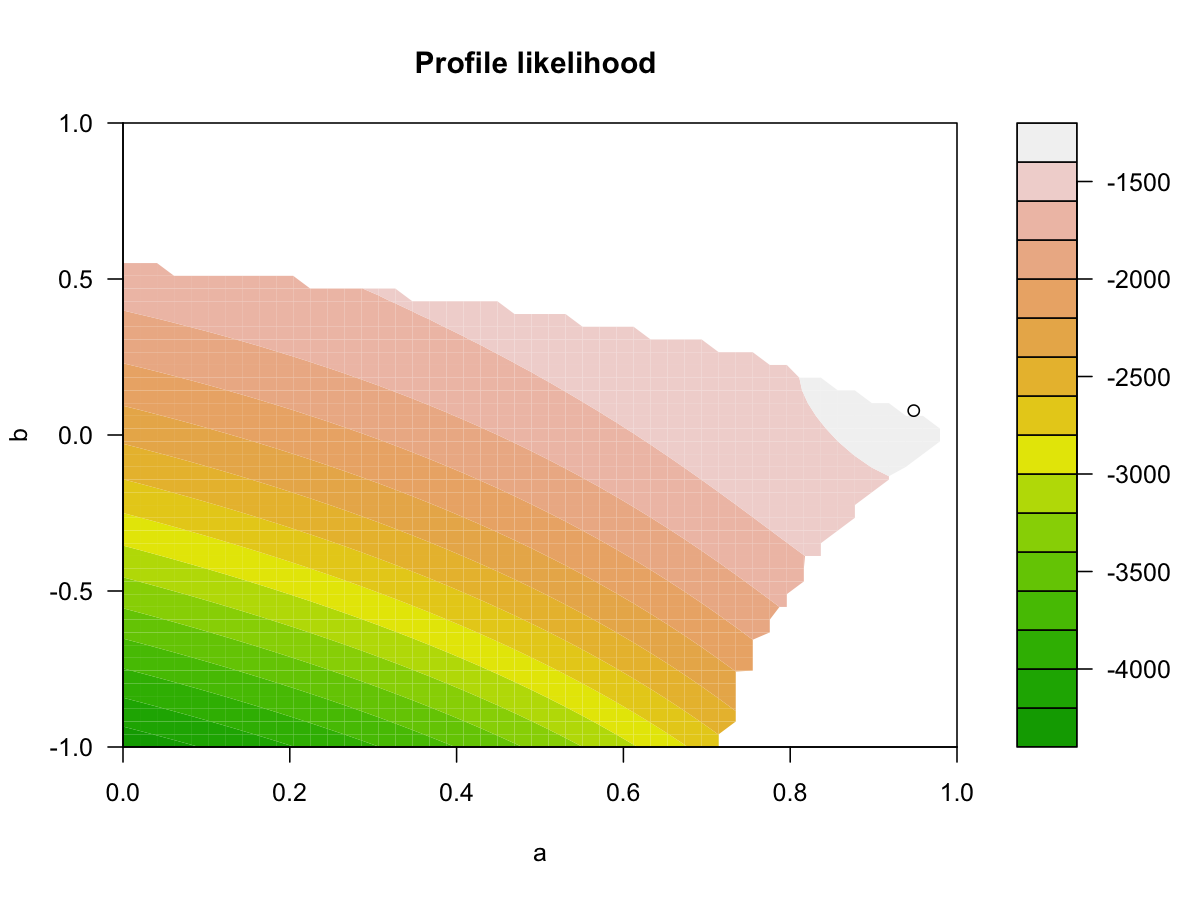
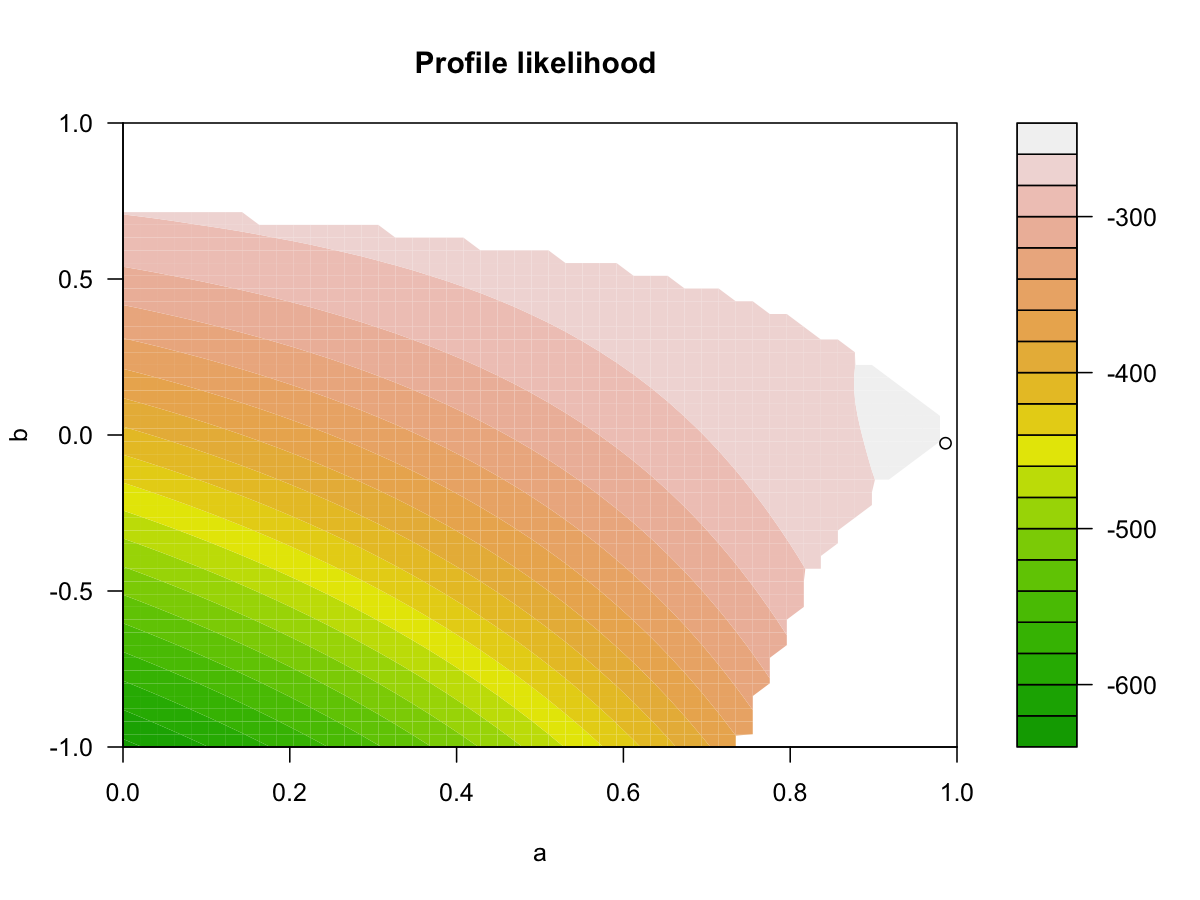
texmex md

diff --git a/R_Notebooks/texmex.md b/R_Notebooks/texmex.md
@@ -13,22 +13,22 @@ Mongi Nouira
 <p align="center">
 
     ##                  Market Communication.Services Technology Industrial Materials
-    ## Threshold          1.22                   1.38      1.645       1.38      1.57
-    ## P(X < threshold)   0.90                   0.90      0.900       0.90      0.90
-    ## sigma              0.85                   0.99      1.069       0.95      1.05
-    ## xi                 0.19                   0.14      0.074       0.17      0.16
+    ## Threshold          2.00                  2.000      2.000       2.00      2.00
+    ## P(X < threshold)   0.96                  0.946      0.927       0.94      0.93
+    ## sigma              0.96                  1.149      1.074       0.97      1.08
+    ## xi                 0.21                  0.096      0.083       0.21      0.18
     ## Upper end point     Inf                    Inf        Inf        Inf       Inf
     ##                  Consumer.Discretionary Financial Health.Care Consumer.Staples
-    ## Threshold                          1.45      1.67        1.14             0.92
-    ## P(X < threshold)                   0.90      0.90        0.90             0.90
-    ## sigma                              0.90      1.15        0.74             0.55
-    ## xi                                 0.15      0.32        0.17             0.23
+    ## Threshold                          2.00      2.00        2.00             2.00
+    ## P(X < threshold)                   0.94      0.92        0.97             0.98
+    ## sigma                              0.99      1.28        0.92             0.80
+    ## xi                                 0.14      0.31        0.14             0.22
     ## Upper end point                     Inf       Inf         Inf              Inf
     ##                  Utilities Real.Estate Energy
-    ## Threshold             1.25        1.59   1.85
-    ## P(X < threshold)      0.90        0.90   0.90
-    ## sigma                 0.73        1.07   1.09
-    ## xi                    0.27        0.42   0.22
+    ## Threshold             2.00        2.00   2.00
+    ## P(X < threshold)      0.96        0.93   0.91
+    ## sigma                 1.07        1.46   1.05
+    ## xi                    0.18        0.33   0.25
     ## Upper end point        Inf         Inf    Inf
 
 </p>
@@ -44,18 +44,18 @@ Done in EDA section.
 <p align="center">
 
     ## Conditioning on Market variable.
-    ## Thresholding quantiles for transformed data: dqu = 0.8
+    ## Thresholding quantiles for transformed data: dqu = 0.9
     ## Using laplace margins for dependence estimation.
     ## Constrained estimation of dependence parameters using v = 10 .
-    ## Log-likelihood = -1311 -1121 -907 -1134 -978 -1070 -1217 -1309 -1430 -1376 -1355 
+    ## Log-likelihood = -736 -624 -475 -630 -504 -590 -677 -724 -807 -789 -710 
     ## 
     ## Dependence structure parameter estimates:
     ##   Communication.Services Technology Industrial Materials Consumer.Discretionary
-    ## a                   0.47       0.12       0.50      0.60                   0.25
-    ## b                   0.39       0.57       0.48      0.37                   0.59
+    ## a                   0.22       0.12       0.28      0.39                   0.37
+    ## b                   0.54       0.56       0.65      0.57                   0.64
     ##   Financial Health.Care Consumer.Staples Utilities Real.Estate Energy
-    ## a      0.65        0.43             0.45      0.71        0.50   0.50
-    ## b      0.32        0.43             0.38      0.28        0.39   0.35
+    ## a      0.52        0.37             0.29      0.11        0.11   0.50
+    ## b      0.39        0.45             0.58      0.57        0.52   0.55
 
 </p>
 
@@ -63,7 +63,7 @@ Done in EDA section.
 
 <p align="center">
 
-<img src="cache/texmex/unnamed-chunk-6-1.png" style="display: block; margin: auto;" /><img src="cache/texmex/unnamed-chunk-6-2.png" style="display: block; margin: auto;" /><img src="cache/texmex/unnamed-chunk-6-3.png" style="display: block; margin: auto;" /><img src="cache/texmex/unnamed-chunk-6-4.png" style="display: block; margin: auto;" /><img src="cache/texmex/unnamed-chunk-6-5.png" style="display: block; margin: auto;" /><img src="cache/texmex/unnamed-chunk-6-6.png" style="display: block; margin: auto;" /><img src="cache/texmex/unnamed-chunk-6-7.png" style="display: block; margin: auto;" /><img src="cache/texmex/unnamed-chunk-6-8.png" style="display: block; margin: auto;" /><img src="cache/texmex/unnamed-chunk-6-9.png" style="display: block; margin: auto;" /><img src="cache/texmex/unnamed-chunk-6-10.png" style="display: block; margin: auto;" /><img src="cache/texmex/unnamed-chunk-6-11.png" style="display: block; margin: auto;" />
+<img src="cache/texmex/unnamed-chunk-5-1.png" style="display: block; margin: auto;" /><img src="cache/texmex/unnamed-chunk-5-2.png" style="display: block; margin: auto;" /><img src="cache/texmex/unnamed-chunk-5-3.png" style="display: block; margin: auto;" /><img src="cache/texmex/unnamed-chunk-5-4.png" style="display: block; margin: auto;" /><img src="cache/texmex/unnamed-chunk-5-5.png" style="display: block; margin: auto;" /><img src="cache/texmex/unnamed-chunk-5-6.png" style="display: block; margin: auto;" /><img src="cache/texmex/unnamed-chunk-5-7.png" style="display: block; margin: auto;" /><img src="cache/texmex/unnamed-chunk-5-8.png" style="display: block; margin: auto;" /><img src="cache/texmex/unnamed-chunk-5-9.png" style="display: block; margin: auto;" /><img src="cache/texmex/unnamed-chunk-5-10.png" style="display: block; margin: auto;" /><img src="cache/texmex/unnamed-chunk-5-11.png" style="display: block; margin: auto;" />
 
 </p>
 
@@ -75,13 +75,13 @@ Done in EDA section.
 
 <p align="center">
 
-    ## mexRangeFit run time: 443.073 sec elapsed
+    ## mexRangeFit run time: 220.967 sec elapsed
 
 </p>
 
 <p align="center">
 
-<img src="cache/texmex/unnamed-chunk-9-1.png" style="display: block; margin: auto;" /><img src="cache/texmex/unnamed-chunk-9-2.png" style="display: block; margin: auto;" /><img src="cache/texmex/unnamed-chunk-9-3.png" style="display: block; margin: auto;" /><img src="cache/texmex/unnamed-chunk-9-4.png" style="display: block; margin: auto;" />
+<img src="cache/texmex/unnamed-chunk-8-1.png" style="display: block; margin: auto;" /><img src="cache/texmex/unnamed-chunk-8-2.png" style="display: block; margin: auto;" /><img src="cache/texmex/unnamed-chunk-8-3.png" style="display: block; margin: auto;" /><img src="cache/texmex/unnamed-chunk-8-4.png" style="display: block; margin: auto;" />
 
 </p>
 
@@ -89,37 +89,37 @@ Done in EDA section.
 
 <p align="center">
 
-<img src="cache/texmex/unnamed-chunk-10-1.png" style="display: block; margin: auto;" /><img src="cache/texmex/unnamed-chunk-10-2.png" style="display: block; margin: auto;" /><img src="cache/texmex/unnamed-chunk-10-3.png" style="display: block; margin: auto;" /><img src="cache/texmex/unnamed-chunk-10-4.png" style="display: block; margin: auto;" /><img src="cache/texmex/unnamed-chunk-10-5.png" style="display: block; margin: auto;" /><img src="cache/texmex/unnamed-chunk-10-6.png" style="display: block; margin: auto;" /><img src="cache/texmex/unnamed-chunk-10-7.png" style="display: block; margin: auto;" /><img src="cache/texmex/unnamed-chunk-10-8.png" style="display: block; margin: auto;" /><img src="cache/texmex/unnamed-chunk-10-9.png" style="display: block; margin: auto;" /><img src="cache/texmex/unnamed-chunk-10-10.png" style="display: block; margin: auto;" /><img src="cache/texmex/unnamed-chunk-10-11.png" style="display: block; margin: auto;" />
+<img src="cache/texmex/unnamed-chunk-9-1.png" style="display: block; margin: auto;" /><img src="cache/texmex/unnamed-chunk-9-2.png" style="display: block; margin: auto;" /><img src="cache/texmex/unnamed-chunk-9-3.png" style="display: block; margin: auto;" /><img src="cache/texmex/unnamed-chunk-9-4.png" style="display: block; margin: auto;" /><img src="cache/texmex/unnamed-chunk-9-5.png" style="display: block; margin: auto;" /><img src="cache/texmex/unnamed-chunk-9-6.png" style="display: block; margin: auto;" /><img src="cache/texmex/unnamed-chunk-9-7.png" style="display: block; margin: auto;" /><img src="cache/texmex/unnamed-chunk-9-8.png" style="display: block; margin: auto;" /><img src="cache/texmex/unnamed-chunk-9-9.png" style="display: block; margin: auto;" /><img src="cache/texmex/unnamed-chunk-9-10.png" style="display: block; margin: auto;" /><img src="cache/texmex/unnamed-chunk-9-11.png" style="display: block; margin: auto;" />
 
 </p>
 
 <p align="center">
 
     ## Conditioning on Market variable.
-    ## Thresholding quantiles for transformed data: dqu = 0.75
+    ## Thresholding quantiles for transformed data: dqu = 0.95
     ## Using laplace margins for dependence estimation.
     ## Constrained estimation of dependence parameters using v = 10 .
-    ## Log-likelihood = -1567 -1279 -978 -1303 -1061 -1231 -1392 -1556 -1709 -1624 -1595 
+    ## Log-likelihood = -382 -308 -214 -306 -257 -282 -349 -370 -416 -401 -362 
     ## 
     ## Dependence structure parameter estimates:
     ##   Communication.Services Technology Industrial Materials Consumer.Discretionary
-    ## a                   0.77      0.862      0.968      0.88                  0.933
-    ## b                   0.17      0.088      0.051      0.16                  0.098
-    ##   Financial Health.Care Consumer.Staples Utilities Real.Estate Energy
-    ## a      0.89        0.81             0.77      0.65        0.71   0.80
-    ## b      0.14        0.20             0.18      0.31        0.20   0.18
+    ## a                  0.934       0.71      0.975    0.9962                  0.986
+    ## b                  0.093       0.35      0.065   -0.0076                 -0.026
+    ##   Financial Health.Care Consumer.Staples Utilities Real.Estate  Energy
+    ## a      0.87       0.967          1.0e+00     1e+00        0.86 1.0e+00
+    ## b      0.23      -0.066         -5.5e-08     1e-06       -0.33 1.5e-05
 
 </p>
 
 <p align="center">
 
-<img src="cache/texmex/unnamed-chunk-12-1.png" style="display: block; margin: auto;" /><img src="cache/texmex/unnamed-chunk-12-2.png" style="display: block; margin: auto;" /><img src="cache/texmex/unnamed-chunk-12-3.png" style="display: block; margin: auto;" /><img src="cache/texmex/unnamed-chunk-12-4.png" style="display: block; margin: auto;" /><img src="cache/texmex/unnamed-chunk-12-5.png" style="display: block; margin: auto;" /><img src="cache/texmex/unnamed-chunk-12-6.png" style="display: block; margin: auto;" /><img src="cache/texmex/unnamed-chunk-12-7.png" style="display: block; margin: auto;" /><img src="cache/texmex/unnamed-chunk-12-8.png" style="display: block; margin: auto;" /><img src="cache/texmex/unnamed-chunk-12-9.png" style="display: block; margin: auto;" /><img src="cache/texmex/unnamed-chunk-12-10.png" style="display: block; margin: auto;" /><img src="cache/texmex/unnamed-chunk-12-11.png" style="display: block; margin: auto;" />
+<img src="cache/texmex/unnamed-chunk-11-1.png" style="display: block; margin: auto;" /><img src="cache/texmex/unnamed-chunk-11-2.png" style="display: block; margin: auto;" /><img src="cache/texmex/unnamed-chunk-11-3.png" style="display: block; margin: auto;" /><img src="cache/texmex/unnamed-chunk-11-4.png" style="display: block; margin: auto;" /><img src="cache/texmex/unnamed-chunk-11-5.png" style="display: block; margin: auto;" /><img src="cache/texmex/unnamed-chunk-11-6.png" style="display: block; margin: auto;" /><img src="cache/texmex/unnamed-chunk-11-7.png" style="display: block; margin: auto;" /><img src="cache/texmex/unnamed-chunk-11-8.png" style="display: block; margin: auto;" /><img src="cache/texmex/unnamed-chunk-11-9.png" style="display: block; margin: auto;" /><img src="cache/texmex/unnamed-chunk-11-10.png" style="display: block; margin: auto;" /><img src="cache/texmex/unnamed-chunk-11-11.png" style="display: block; margin: auto;" />
 
 </p>
 
 <p align="center">
 
-<img src="cache/texmex/unnamed-chunk-13-1.png" style="display: block; margin: auto;" />
+<img src="cache/texmex/unnamed-chunk-12-1.png" style="display: block; margin: auto;" />
 
 </p>
 
@@ -133,50 +133,50 @@ Done in EDA section.
     ## Conditional Mean and Quantiles:
     ## 
     ##      Market|Market>Q90 Communication.Services|Market>Q90 Technology|Market>Q90
-    ## mean               2.3                              1.93                  2.48
-    ## 5%                 1.3                              0.42                  0.85
-    ## 50%                1.9                              1.61                  2.20
-    ## 95%                4.6                              4.53                  4.99
+    ## mean               3.2                              2.81                   3.3
+    ## 5%                 2.0                              0.57                   1.4
+    ## 50%                2.7                              2.53                   3.1
+    ## 95%                6.0                              5.99                   5.9
     ##      Industrial|Market>Q90 Materials|Market>Q90
-    ## mean                  2.34                 2.44
-    ## 5%                    0.93                 0.76
-    ## 50%                   1.99                 2.12
-    ## 95%                   5.00                 5.12
+    ## mean                   3.4                  3.5
+    ## 5%                     1.6                  1.3
+    ## 50%                    3.0                  3.1
+    ## 95%                    6.4                  7.1
     ##      Consumer.Discretionary|Market>Q90 Financial|Market>Q90
-    ## mean                              2.30                 2.93
-    ## 5%                                0.86                 0.85
-    ## 50%                               2.01                 2.28
-    ## 95%                               4.65                 7.01
+    ## mean                               3.3                  4.5
+    ## 5%                                 1.5                  1.8
+    ## 50%                                3.0                  3.6
+    ## 95%                                6.0                  9.9
     ##      Health.Care|Market>Q90 Consumer.Staples|Market>Q90 Utilities|Market>Q90
-    ## mean                   1.67                        1.31                 1.54
-    ## 5%                     0.43                        0.27                 0.18
-    ## 50%                    1.45                        1.13                 1.22
-    ## 95%                    3.64                        2.88                 3.92
+    ## mean                   2.44                         1.9                 2.31
+    ## 5%                     0.61                         0.4                 0.15
+    ## 50%                    2.18                         1.6                 1.81
+    ## 95%                    4.94                         4.2                 5.84
     ##      Real.Estate|Market>Q90 Energy|Market>Q90
-    ## mean                   2.42               2.5
-    ## 5%                     0.35               0.5
-    ## 50%                    1.77               2.1
-    ## 95%                    6.55               5.9
+    ## mean                   4.03              3.60
+    ## 5%                     0.48              0.62
+    ## 50%                    3.09              3.08
+    ## 95%                   10.60              7.85
     ## 
     ## Conditional probability of threshold exceedance:
     ## 
-    ##  P(Market>1.22412|Market>Q90) P(Communication.Services>1.38083|Market>Q90)
-    ##                             1                                         0.59
-    ##  P(Technology>1.64517|Market>Q90) P(Industrial>1.37699|Market>Q90)
-    ##                              0.74                             0.79
-    ##  P(Materials>1.5741|Market>Q90) P(Consumer.Discretionary>1.44643|Market>Q90)
-    ##                            0.71                                         0.78
-    ##  P(Financial>1.67156|Market>Q90) P(Health.Care>1.13911|Market>Q90)
-    ##                             0.73                              0.67
-    ##  P(Consumer.Staples>0.922603|Market>Q90) P(Utilities>1.25301|Market>Q90)
-    ##                                     0.63                            0.49
-    ##  P(Real.Estate>1.59122|Market>Q90) P(Energy>1.8516|Market>Q90)
-    ##                               0.56                        0.58
+    ##  P(Market>2|Market>Q90) P(Communication.Services>2|Market>Q90)
+    ##                       1                                   0.65
+    ##  P(Technology>2|Market>Q90) P(Industrial>2|Market>Q90)
+    ##                        0.86                       0.87
+    ##  P(Materials>2|Market>Q90) P(Consumer.Discretionary>2|Market>Q90)
+    ##                       0.82                                   0.86
+    ##  P(Financial>2|Market>Q90) P(Health.Care>2|Market>Q90)
+    ##                       0.91                        0.57
+    ##  P(Consumer.Staples>2|Market>Q90) P(Utilities>2|Market>Q90)
+    ##                              0.36                      0.44
+    ##  P(Real.Estate>2|Market>Q90) P(Energy>2|Market>Q90)
+    ##                         0.68                   0.78
 
 </p>
 
 <p align="center">
 
-<img src="cache/texmex/unnamed-chunk-15-1.png" style="display: block; margin: auto;" />
+<img src="cache/texmex/unnamed-chunk-14-1.png" style="display: block; margin: auto;" />
 
 </p>
